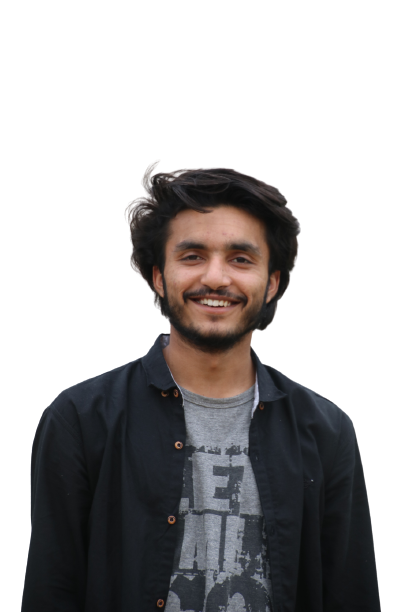
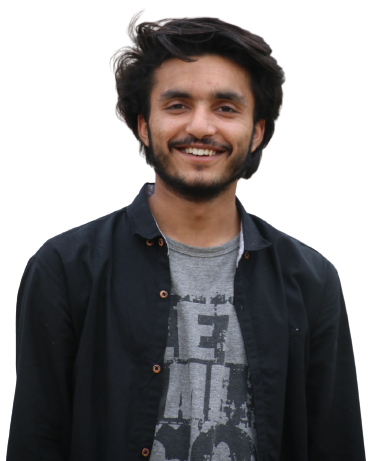
header mobile WIP

diff --git a/index.html b/index.html
@@ -117,6 +117,18 @@
 
     <!-- dp -->
     <div class="profile-picture">
+        <h1 class="stats">
+            <span>4</span>
+            <di class="label stats-label">Years Experience</di>
+        </h1>
+        <h1 class="stats">
+            <span>35+</span>
+            <di class="label stats-label">Years Experience</di>
+        </h1>
+        <h1 class="stats">
+            <span>109k+</span>
+            <di class="label stats-label">Years Experience</di>
+        </h1>
         <img class="dp" src="images/me.png" alt="muhammad hamza profile picture">
     </div>
 

diff --git a/index.css b/index.css
@@ -59,7 +59,20 @@
     font-weight: 700;
 }
 
+.stats {
+    float: left;
+    color: white;
+    font-weight: 300;
+    font-size: 22px;
+}
+
+.stats-label {
+    color: var(--text-light);
+    letter-spacing: 2px;
+    font-weight: 600;
+}
+
 .dp {
-    float: right;
-    height: 400px;
+    border-top-right-radius: 50%;
+    background-color: transparent;
 }

diff --git a/media/mobile/xs.css b/media/mobile/xs.css
@@ -23,6 +23,13 @@
 
     #chat-btn {
         padding: 4%;
-        padding-top: 20%;
+    }
+
+    .dp {
+        height: 300px;
+    }
+
+    .profile-picture {
+        width: 100%;
     }
 }
